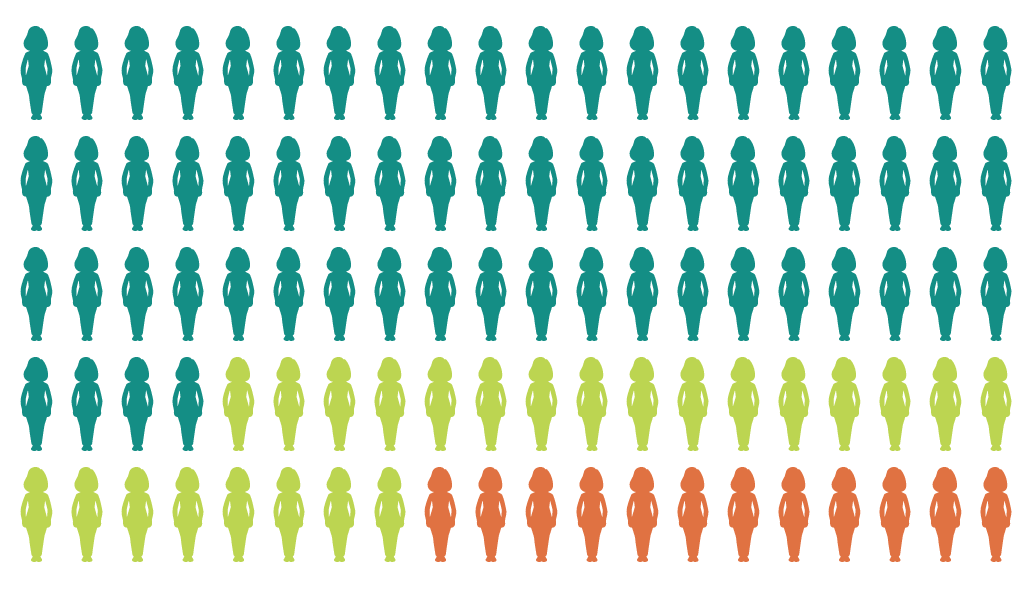
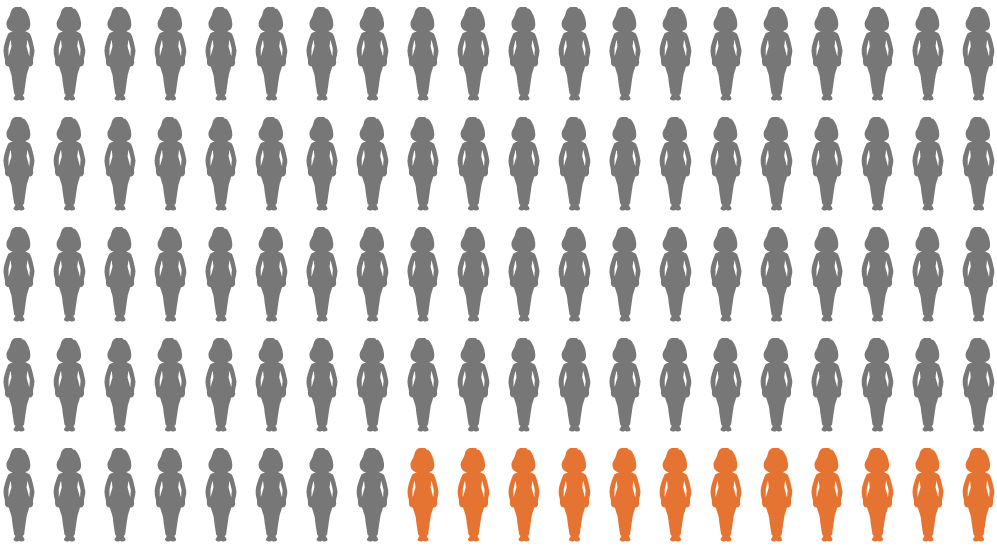
Update data static article

diff --git a/_articles/anticonceptivos/data-static.es.md b/_articles/anticonceptivos/data-static.es.md
@@ -30,47 +30,43 @@ Fanta Jatta es una de las personas que mejor conoce estos casos. Los narra en la
 
 <!-- TREEMAP -->
 
+<div class="panel" markdown="1">
 **En España, un 63% de las mujeres usa algún método anticonceptivo moderno. El más habitual es el condón masculino.**
 
 **En el mundo, los métodos más habituales son la esterilización femenina, el DIU y la píldora.**
-
+</div>
 <!--  -->
 
 Pero **su uso no es homogéneo ni entre países ni entre clases sociales**. La [situación económica](http://www.eldiario.es/piedrasdepapel/Pontelo-Ponselo-anticonceptivos-desigualdad_6_563853635.html), el contexto cultural, la distribución de las farmacéuticas y las políticas públicas condicionan los métodos más populares en cada país. 
 
 <!-- MAPS -->
 
-**La esterilización femenina es el método más habitual en India (67%); además, destaca en muchos países centroamericanos, como República Dominicana (59%), Puerto Rico, El Salvador y México.**
+<div class="panel" markdown="1">
+##### Algunos datos sobre el uso de los distintos métodos anticonceptivos
 
-**La esterilización masculina tiene una implantación muchísimo menor y no alcanza porcentajes tan altos. Por ejemplo: un 30% de las mujeres en Canadá contestó que es el método que usan sus parejas. En Reino Unido ese porcentaje es del 25%.**
+- La **esterilización femenina** es el método más habitual en India (67%); además, destaca en muchos países centroamericanos, como República Dominicana (59%), Puerto Rico, El Salvador y México.
 
-**El DIU destaca en estados asiáticos, con Corea del Norte por encima de todos: es el método que usa el 95% de las mujeres que quiere controlar su natalidad.**
+- La **esterilización masculina** tiene una implantación muchísimo menor y no alcanza porcentajes tan altos. Por ejemplo: un 30% de las mujeres en Canadá contestó que es el método que usan sus parejas. En Reino Unido ese porcentaje es del 25%.
 
-**En China, donde el 48% usa el DIU, durante la época en la que estuvo vigente la política de hijo único, el gobierno obligaba a las mujeres a usarlo tras su primer parto. Ahora, se [está ofreciendo](https://www.nytimes.com/2017/01/07/world/asia/after-one-child-policy-outrage-at-chinas-offer-to-remove-iuds.html) a retirarlos de forma gratuita. En el resto del mundo es mucho menos habitual. Algunos médicos [rechazan insertarlo](https://www.washingtonpost.com/national/health-science/why-do-some-doctors-refuse-to-give-women-iuds/2017/10/12/ee1e881e-a3c9-11e7-b14f-f41773cd5a14_story.html?utm_term=.6e3da2fb3930) por falsas creencias sobre su seguridad en mujeres que no han tenido hijos.**
+- El **DIU** destaca en estados asiáticos, con Corea del Norte por encima de todos: es el método que usa el 95% de las mujeres que quiere controlar su natalidad. En China, donde el 48% usa el DIU, durante la época en la que estuvo vigente la política de hijo único, el gobierno obligaba a las mujeres a usarlo tras su primer parto. Ahora, se [está ofreciendo](https://www.nytimes.com/2017/01/07/world/asia/after-one-child-policy-outrage-at-chinas-offer-to-remove-iuds.html) a retirarlos de forma gratuita. En el resto del mundo es mucho menos habitual. Algunos médicos [rechazan insertarlo](https://www.washingtonpost.com/national/health-science/why-do-some-doctors-refuse-to-give-women-iuds/2017/10/12/ee1e881e-a3c9-11e7-b14f-f41773cd5a14_story.html?utm_term=.6e3da2fb3930) por falsas creencias sobre su seguridad en mujeres que no han tenido hijos.
 
-**La píldora es prioritaria, entre otras zonas, en el norte de África y buena parte de la Europa occidental, pero no en España.**
+- La **píldora** es prioritaria, entre otras zonas, en el norte de África y buena parte de la Europa occidental, pero no en España.
 
-**El preservativo masculino es uno de los métodos más habituales en países tan distintos como Botsuana (79%) y Grecia (49%), y en otros países entre mujeres no casadas que no tienen acceso a otros métodos más establecidos. Es el principal método elegido como anticonceptivo en España (38%).**
+- El **preservativo masculino** es uno de los métodos más habituales en países tan distintos como Botsuana (79%) y Grecia (49%), y en otros países entre mujeres no casadas que no tienen acceso a otros métodos más establecidos. Es el principal método elegido como anticonceptivo en España (38%).
 
-**El método inyectable, también hormonal, es el favorito en África y buena parte del Sudeste Asiático. Para muchas mujeres es la solución perfecta si deciden usar anticonceptivos sin que se enteren sus maridos si ellos están en contra. No se nota, es fácil de administrar -un pinchazo rápido cada uno, tres o cinco meses- y no deja huella.**
+- El método **inyectable**, también hormonal, es el favorito en África y buena parte del Sudeste Asiático. Para muchas mujeres es la solución perfecta si deciden usar anticonceptivos sin que se enteren sus maridos si ellos están en contra. No se nota, es fácil de administrar -un pinchazo rápido cada uno, tres o cinco meses- y no deja huella.
 
-**Los métodos tradicionales van desde la marcha atrás al control del ciclo, pasando por prácticas locales vinculadas a la religión o la magia. Estos métodos, muy poco o nada fiables, son mayoritarios en la región de los Balcanes.**
-
-**En Albania, por ejemplo, la marcha atrás es el principal método anticonceptivo para un 58% de mujeres.**
-
+- Los **métodos tradicionales** van desde la marcha atrás al control del ciclo, pasando por prácticas locales vinculadas a la religión o la magia. Estos métodos, muy poco o nada fiables, son mayoritarios en la región de los Balcanes. En Albania, por ejemplo, la marcha atrás es el principal método anticonceptivo para un 58% de mujeres.
+</div>
 <!--  -->
 
 En Gambia, muchas mujeres usan un método tradicional que recibe diferentes nombres y está realizado de diversas formas. Parten de lo mismo: **se ata a la cintura una cuerdita, una rama, o un papelito con o sin frases del Corán**, para proteger a la mujer de quedarse embarazada. Por supuesto, no tiene base científica. 
 
 <!-- WOMANS -->
 
-**Hasta ahora hemos hablado de aquellas mujeres que usan anticonceptivos. De las mujeres casadas o sexualmente activas de 15 a 49 años, el 64% usa algún tipo de método.**
+Hasta ahora hemos hablado de aquellas mujeres que usan anticonceptivos. De las mujeres casadas o sexualmente activas de 15 a 49 años, **el 64% usa algún tipo de método**. Otro **24% quería seguir teniendo niños** en el momento de ser entrevistada y, por lo tanto, decide no usar ningún método. Pero **el 12% restante son aquellas mujeres que quieren retrasar o frenar su maternidad pero no usan ningún método**. Ni siquiera uno tradicional, como la marcha atrás. Tienen necesidades no cubiertas. Y ahí está el problema.
 
-**Otro 24% quería seguir teniendo niños en el momento de ser entrevistada y, por lo tanto, decide no usar ningún método.**
-
-**Pero el 12% restante son aquellas mujeres que quieren retrasar o frenar su maternidad pero no usan ningún método. Ni siquiera uno tradicional, como la marcha atrás. Tienen necesidades no cubiertas. Y ahí está el problema.**
-
-{% include caption.html img="contraceptives/womens-use.png" fullWidth=true %}
+{% include caption.html img="contraceptives/womens-use.png" fullWidth=true caption="12 de cada 100 mujeres quieren retrasar o frenar su maternidad pero no usan ningún método." %}
 
 <!--  -->
 
@@ -81,13 +77,7 @@ Puede ser que quieran espaciar los embarazos, por razones de salud, para poder c
 
 **Ese problema, las necesidades no cubiertas, es mayor en algunos países del mundo que en otros. Apenas es relevante en China, mientras en Angola supera el 36%.**
 
-**Pero, si distribuimos los países en base a su nivel de renta...**
-
-**En los más ricos, como Estados Unidos, Alemania o España, el porcentaje de mujeres con necesidades no cubiertas es inferior al 15%.**
-
-**En los países con menos renta, ese porcentaje supera el 30%**
-
-**Japón y Arabia Saudí, pese a su riqueza, tienen necesidades al mismo nivel que países mucho más pobres.**
+Pero, si distribuimos los países en base a su nivel de renta, **en los más ricos**, como Estados Unidos, Alemania o España, **el porcentaje de mujeres con necesidades no cubiertas es inferior al 15%**. **En los países con menos renta, ese porcentaje supera el 30%**. Japón y Arabia Saudí, pese a su riqueza, tienen necesidades al mismo nivel que países mucho más pobres.
 
 <div id="unmet-needs-gdp-container-graph" class="graph-container" style="margin-bottom: 60px;">
   <p>Porcentaje de mujeres con <strong>necesidades no cubiertas</strong></p>
